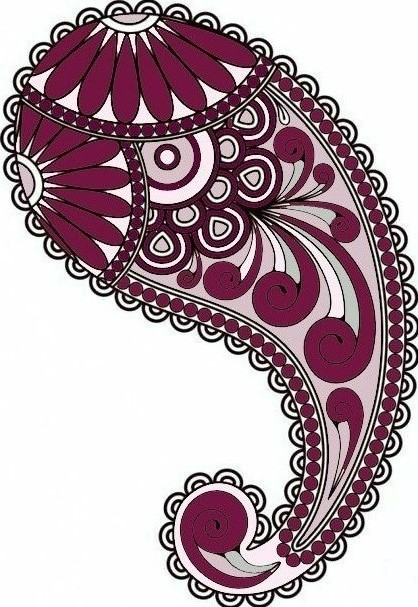
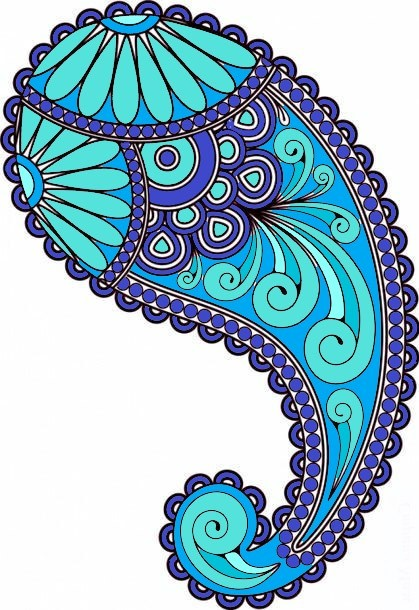
[chore]: change login design

diff --git a/src/components/LoginModal/CustomTabs.jsx b/src/components/LoginModal/CustomTabs.jsx
@@ -6,13 +6,13 @@ import { buttonUnstyledClasses } from '@mui/base/ButtonUnstyled';
 import TabUnstyled, { tabUnstyledClasses } from '@mui/base/TabUnstyled';
 
 const color = {
-  50: '#e4b4d1',
+  50: '#83ffff',
 
-  200: '#2e0b20',
+  200: '#0d0b2e',
 
-  400: '#f3cfe5',
-  500: '#52143a',
-  600: '#52143a',
+  400: '#cfddf3',
+  500: '#0a1066',
+  600: '#141852',
 };
 
 export const Tab = styled(TabUnstyled)`
@@ -26,7 +26,7 @@ export const Tab = styled(TabUnstyled)`
   padding: 8px 16px;
   margin: 6px 6px;
   border-style: groove;
-  border-color: #e4b4d1;
+  border-color: #fff;
   border-radius: 5px;
   display: flex;
   justify-content: center;

diff --git a/src/components/LoginModal/style.scss b/src/components/LoginModal/style.scss
@@ -6,9 +6,16 @@
   width: 95px;
 }
 .FooterImg {
+  margin-top: 15px;
   width: 100%;
   border-bottom-left-radius: 10px;
   border-bottom-right-radius: 10px;
+  @media (max-width: 800px) {
+    margin-top: 20px;
+  }
+  @media (max-width: 600px) {
+    margin-top: 50px;
+  }
 }
 
 .myHeader {
@@ -28,7 +35,7 @@
   border-radius: 10px;
 }
 
-$primary: #52143a;
+$primary: #161452;
 $secondary: #52143a67;
 $white: #fff;
 $gray: #707070;

diff --git a/src/components/LoginModal/index.jsx b/src/components/LoginModal/index.jsx
@@ -1,6 +1,6 @@
 import React from 'react';
 import './style.scss';
-import FooterImg from '../../assets/images/LoginBottom.jpg';
+import FooterImg from '../../assets/images/LoginBottom.png';
 import { Dialog, DialogContent } from '@mui/material';
 import { Toaster } from 'react-hot-toast';
 import TabsUnstyled from '@mui/base/TabsUnstyled';
